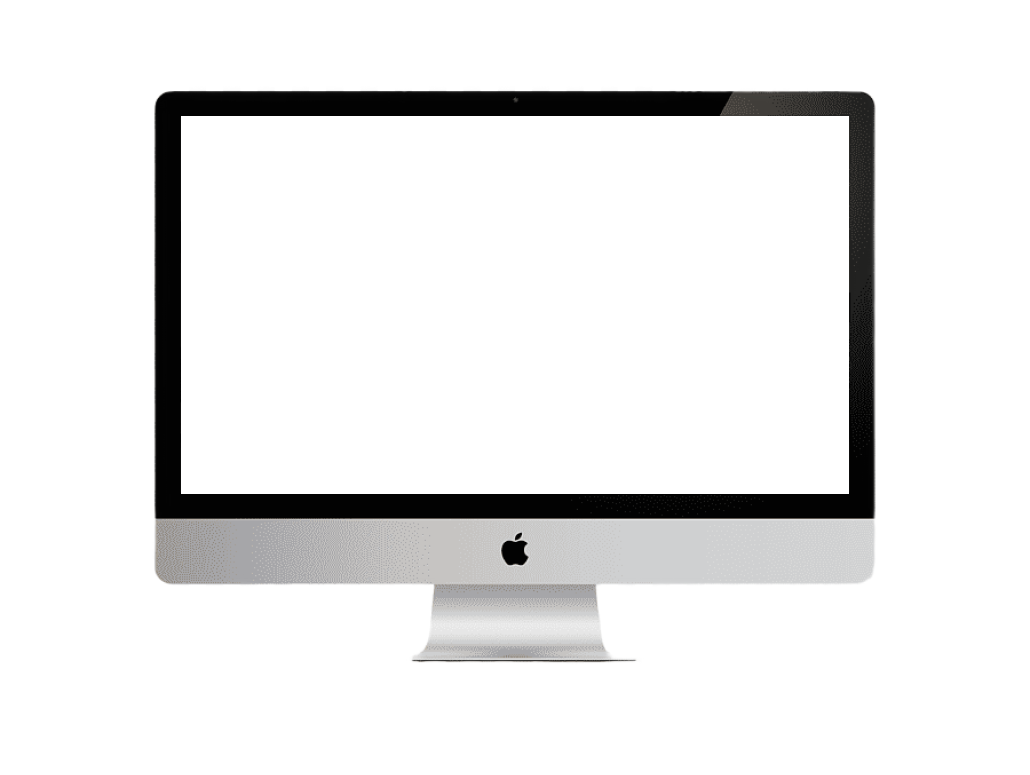
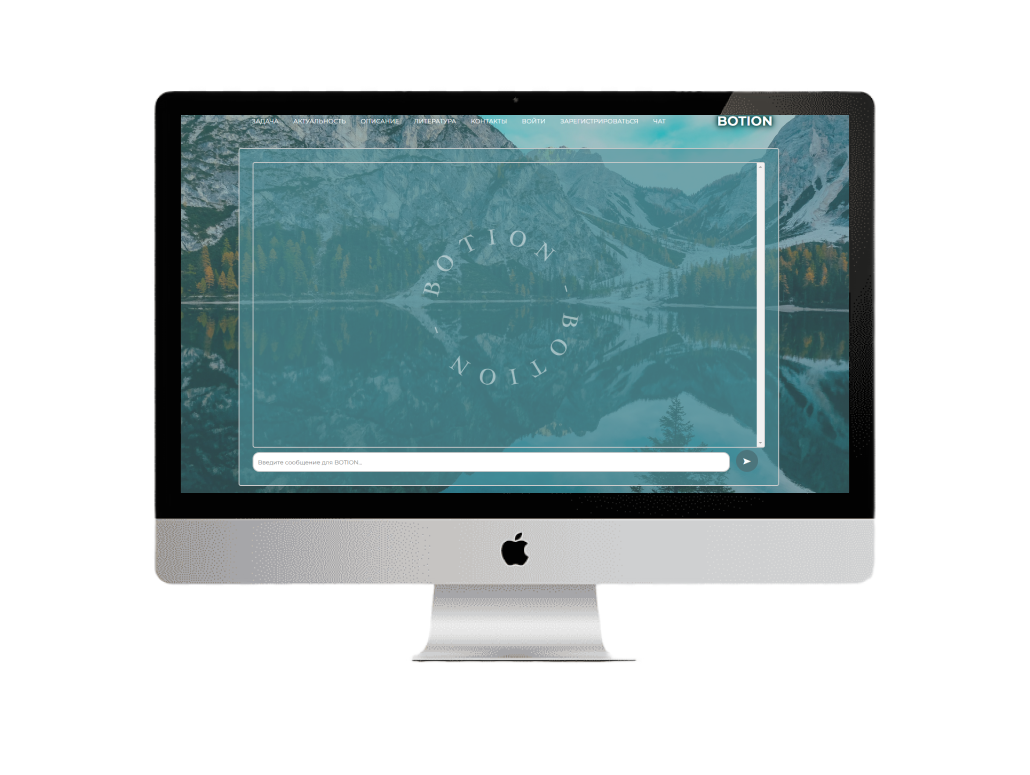
second commit

diff --git a/assets/css/style__chat.css b/assets/css/style__chat.css
@@ -182,160 +182,6 @@ h6 {
     background-attachment: fixed;
 }
 
-.section-1 {
-  height: 1200px;
-  position: relative;
-}
-
-.section-1__rectangle {
-    width: 1057px;
-    height: 1024px;
-    position: absolute;
-    background: url("../images/rectangle_transparent.png");
-    left: 50%;
-    top: 50%;
-    transform: translate(-50%, -50%);
-
-    opacity: 1;
-    z-index: 1;
-}
-
-.figures_1 {
-    width: 338px;
-    height: 434px;
-    position: absolute;
-    left: -100px;
-    top: -120px;
-    background: url("../images/figures_1.png");
-    opacity: 1;
-    
-    z-index: 2;
-}
-
-.figures_2 {
-    width: 414px;
-    height: 388px;
-    position: absolute;
-    background: url("../images/figures_2.png");
-    right: -170px;
-    bottom: -70px;
-    z-index: 3;
-}
-
-.botion_ico {
-    width: 375px;
-    height: 375px;
-    position: absolute;
-    background: url("../images/botion_ico.png");
-    right: -170px;
-    top: -100px;
-    z-index: 4;
-}
-
-.computer {
-    width: 1030px;
-    height: 775px;
-    position: absolute;
-    background: url("../images/computer.png");
-    top: 150px;
-    left: 13.5px;
-    z-index: 4;
-}
-html, body {
-    height: 100%;
-  }
-  
-  .wrap {
-    position: absolute;
-    z-index: 5;
-    display: flex;
-    align-items: center;
-    justify-content: center;
-    bottom: 100px;
-    left: 378.5px;
-
- 
-  }
-  
-  .button1 {
-    min-width: 300px;
-    min-height: 60px;
-    text-align: center;
-    text-decoration: none;
-    font-family: 'Nunito', sans-serif;
-    font-size: 22px;
-    text-transform: uppercase;
-    letter-spacing: 1.3px;
-    font-weight: 700;
-    color: #ffffff;
-
-    background: #4FD1C5;
-  background: linear-gradient(90deg, rgba(129,230,217,1) 0%, rgba(79,209,197,1) 100%);
-    border: none;
-    border-radius: 1000px;
-    box-shadow: 12px 12px 24px rgba(79,209,197,.64);
-    transition: all 0.3s ease-in-out 0s;
-    cursor: pointer;
-    outline: none;
-    position: relative;
-    padding: 10px;
-    }
-  
-  .button1::before {
-  content: '';
-    border-radius: 1000px;
-    min-width: calc(300px + 12px);
-    min-height: calc(60px + 12px);
-    border: 6px solid #00FFCB;
-    box-shadow: 0 0 60px rgba(0,255,203,.64);
-    position: absolute;
-    top: 50%;
-    left: 50%;
-    transform: translate(-50%, -50%);
-    opacity: 0;
-    transition: all .3s ease-in-out 0s;
-  }
-  
-  .button1:hover, .button:focus {
-    color: #087777;
-    transform: translateY(-6px);
-  }
-  
-  .button1:hover::before, .button1:focus::before {
-    opacity: 1;
-  }
-  
-  .button1::after {
-    content: '';
-    width: 30px; height: 30px;
-    border-radius: 100%;
-    border: 6px solid #00FFCB;
-    position: absolute;
-    z-index: -1;
-    top: 50%;
-    left: 50%;
-    transform: translate(-50%, -50%);
-    animation: ring 1.5s infinite;
-  }
-  
-  .button1:hover::after, .button1:focus::after {
-    animation: none;
-    display: none;
-  }
-  
-  @keyframes ring {
-    0% {
-      width: 30px;
-      height: 30px;
-      opacity: 1;
-    }
-    100% {
-      width: 300px;
-      height: 300px;
-      opacity: 0;
-    }
-  }
-
 /*CHAT*/
 .intro__chat {
     display: flex;
@@ -347,7 +193,7 @@ html, body {
 .container__chat {
     width: 100%;
     max-width: 1230px;
-    padding-top: 80px;
+    padding-top: 50px;
     margin: 0 auto;
 }
 .intro__inner__chat {
@@ -366,12 +212,12 @@ html, body {
 
 .chat-box {
     height: 650px;
-    font-size: 20px;
+    
     overflow-y: scroll;
+
     border: 2px solid #ccc;
     border-radius: 5px;
     padding: 10px;
-    z-index: 10;
 }
 .message-date {
     font-size: 10px; /* Устанавливаем меньший размер шрифта */
@@ -379,33 +225,26 @@ html, body {
 }
 
 input[type="text"] {
-    width: calc(100% - 80px);
-    height: 45px;
-    font-family: 'Montserrat', sans-serif;
+    width: calc(100% - 100px);
+    height: 60px;
     padding: 10px;
     margin-top: 10px;
     border: 2px solid #ccc;
     border-radius: 15px;
-    display: inline-block;
 }
 
-.button_send {
-    display: inline-block;
-    width: 50px;
-    height: 50px;
+button {
+    width: 90px;
     padding: 10px;
-    margin-left: 10px;
-    text-align: center;
-    font-size: 20px;
+    margin-top: 10px;
     border: none;
-    border-radius: 45px;
+    border-radius: 5px;
     background-color: #4C757C;
     color: #fff;
     cursor: pointer;
-    
 }
 
-.button_send:hover {
+button:hover {
     background-color: #0c889e;
 }
 .message {
@@ -419,16 +258,7 @@ input[type="text"] {
 .message:nth-child(even) {
     background-color: #d3d3d3;
 }
-.botion_ico__chat {
-    width: 375px;
-    height: 375px;
-    position: absolute;
-    background: url("../images/botion_ico.png");
-    left: 752.5px;
-    top: 290px;
-    opacity: 0.50;
-    z-index: 0;
-}
+
 
 
 @media (max-width: 1290px) {

diff --git a/assets/index.js b/assets/index.js
@@ -1,9 +1,28 @@
+document.addEventListener("DOMContentLoaded", function() {
+    var messageInput = document.getElementById("message-input");
+
+    // Добавляем обработчик событий для поля ввода сообщения при загрузке страницы
+    messageInput.addEventListener("keydown", function(event) {
+        if (event.key === "Enter") {
+            sendMessage(); // Вызываем функцию отправки сообщения
+        }
+    });
+    
+});
+
 function sendMessage() {
     var messageInput = document.getElementById("message-input");
     var message = messageInput.value;
     if (message.trim() === "") {
         return;
     }
+   // Добавление обработчика событий для события keydown
+    messageInput.addEventListener("keydown", function(event) {
+    // Проверка, нажата ли клавиша Enter
+    if (event.key === "Enter") {
+        sendMessage(); // Вызываем функцию отправки сообщения
+    }
+    });
 
     var chatBox = document.getElementById("chat-box");
     var messageContainer = document.createElement("div"); // Создаем контейнер для сообщения
@@ -38,3 +57,13 @@ function sendMessage() {
     // Прокрутить вниз, чтобы видеть последнее сообщение
     chatBox.scrollTop = chatBox.scrollHeight;
 }
+
+$(window).ready(function(){
+    $(".boton").wrapInner('<div class=botontext></div>');
+        
+        $(".botontext").clone().appendTo( $(".boton") );
+        
+        $(".boton").append('<span class="twist"></span><span class="twist"></span><span class="twist"></span><span class="twist"></span>');
+        
+        $(".twist").css("width", "25%").css("width", "+=3px");
+    });

diff --git a/chat.html b/chat.html
@@ -16,7 +16,7 @@
 </head>
 
 <body>
-
+<div class="bg-img">
     <header class="header">
         <div class="container">
             <div class="header__inner">
@@ -38,20 +38,17 @@
         </div>
     </header>
 
-    <div class="bg-img">
-        <div class="intro">
-            <div class="container">
-                <div class="intro__inner">
+    
+        <div class="intro__chat">
+            <div class="container__chat">
+                <div class="intro__inner__chat">
 
-
-                    <div class="chat-container">
-                         <div class="chat-box" id="chat-box">
-                             <!-- Сюда будут добавляться сообщения -->
-
-                         </div>
-                         <input type="text" id="message-input" placeholder="Введите сообщение...">
-                         <button onclick="sendMessage()">Отправить</button>
+                    <div class="chat-box" id="chat-box">
+                       <!-- Сюда будут добавляться сообщения -->
                     </div>
+                    <input type="text" id="message-input" placeholder="Введите сообщение для BOTION...">
+                    <div class="button_send" onclick="sendMessage()">&#10148;</div>
+                    <div class="botion_ico__chat"></div>
                     
 
 

diff --git a/index.html b/index.html
@@ -58,6 +58,9 @@
                 <div class="figures_2"></div>
                 <div class="botion_ico"></div>
                 <div class="computer"></div>
+                <div class="wrap">
+                    <a href="../graduate work/chat.html" class="button1">Try BOTION</a>
+                </div>
 
             </div>
 
